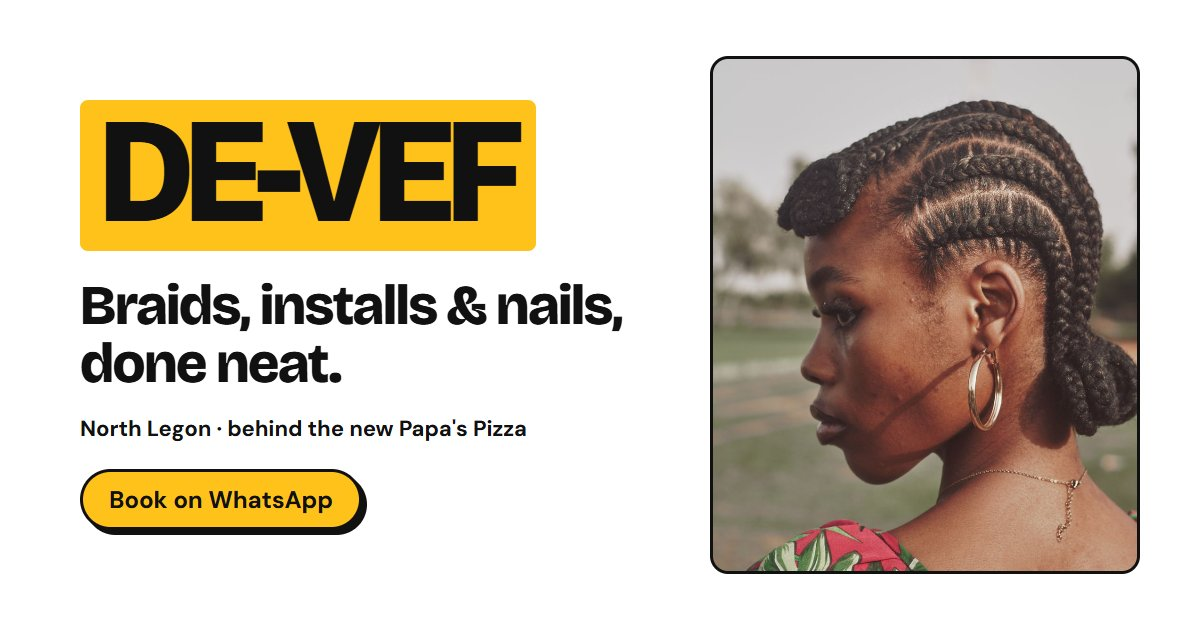
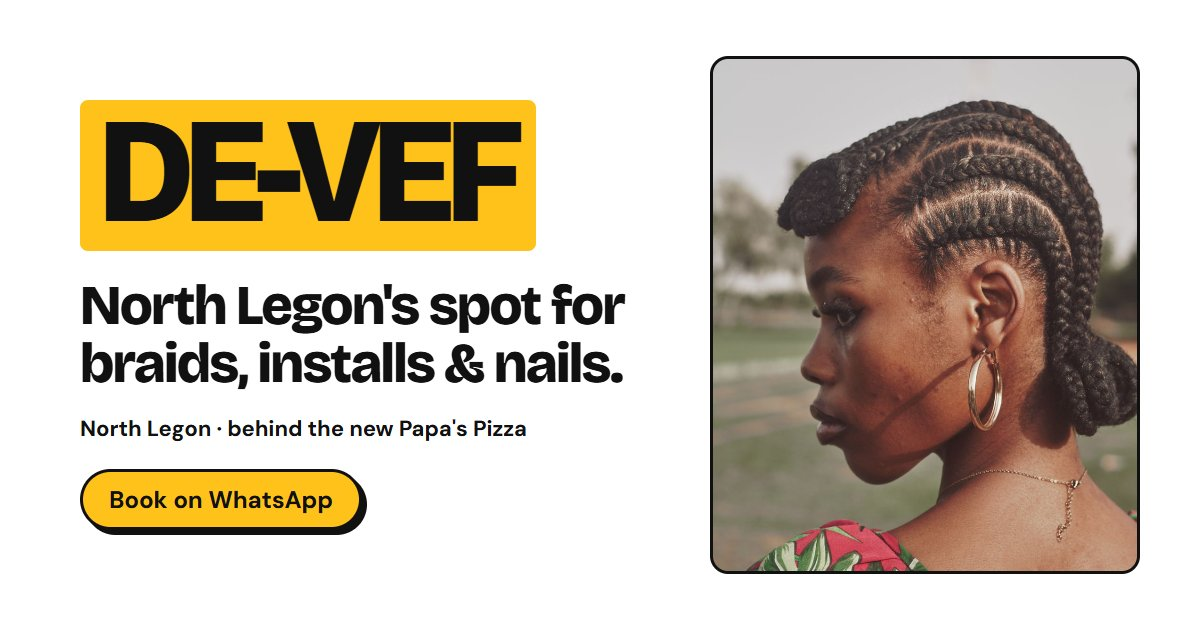
style(design): FINDING-001 — headline specific to De-Vef (was close to Getnailed's); preview card updated

Changed region(s): [[0.0617, 0.4524, 0.5242, 0.6333]]

diff --git a/index.html b/index.html
@@ -59,7 +59,7 @@
       <div class="wrap hero-inner">
         <div class="hero-copy">
           <p class="where"><i class="fa-solid fa-location-dot" aria-hidden="true"></i> North Legon · behind the new Papa's Pizza</p>
-          <h1><span class="mark">DE-VEF</span> Braids, installs <br class="br-wide" />&amp; nails, done neat.</h1>
+          <h1><span class="mark">DE-VEF</span> North Legon's spot for braids, installs &amp; nails.</h1>
           <p class="lead">Cornrows, knotless, curly braids, frontals, weave-ons, manicures and pedicures. Pick your style and book in seconds on WhatsApp.</p>
           <div class="hero-cta">
             <a href="#book" class="btn"><i class="fa-brands fa-whatsapp" aria-hidden="true"></i> Book an appointment</a>
